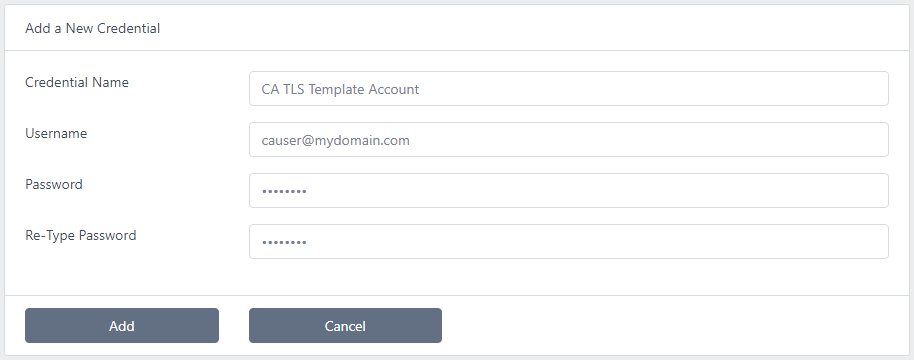
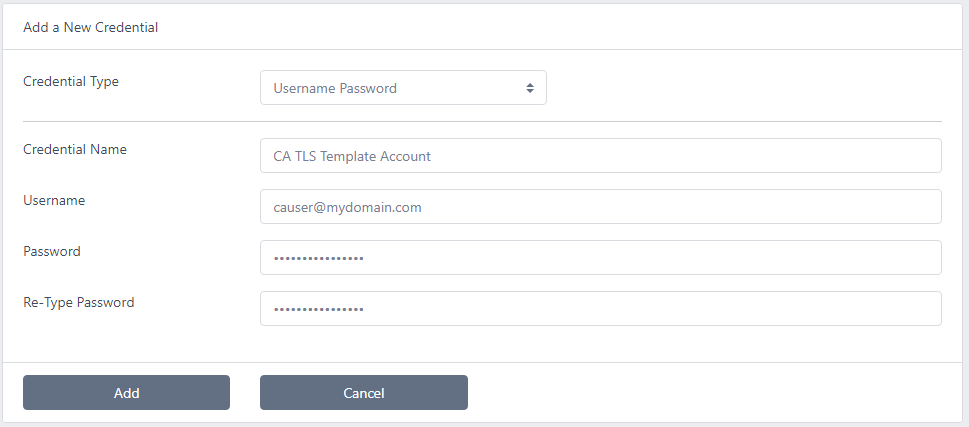
Updates

diff --git a/ezcert/credentials.md b/ezcert/credentials.md
@@ -9,11 +9,13 @@ nav_order: 7
 
 
 
-A credential is simply an account on the system that has the required permissions to request certificates from the Microsoft CA. It is usually a Microsoft Windows domain account  
+A credential is a secure store of an account or password.  It may be an account on a system that has the required permissions to request certificates from a Microsoft CA in which case it will be Microsoft Windows domain account  
 
 When you configure a Microsoft Certificate Issuer you must either specify a credential or select *No Credential*  
 
-When a certificate is requested from the Certificate Issuer (or the CA's templates are queried) this account is used by the ADCS Agent. If *No Credential* is selected the account that the ADCS Agent service is running under will be used instead  
+When you configure other issuers, you may only need to configure a password credential
+
+When a certificate is requested from the Certificate Issuer (or the Microsoft CA's templates are queried) this account is used by the ADCS Agent. If *No Credential* is selected the account that the ADCS Agent service is running under will be used instead  
 
 ---
 
@@ -22,12 +24,13 @@ To create a new Credential:
 1. Select **Credentials** from the menu
 2. Click **Add New Credential**
 
-<img src=".\images\new_credential.png" alt="image-20210116161358897" style="zoom: 67%;" />
+<img src=".\images\new_credential.png" alt="image-20210207171112963" style="zoom:67%;" />
 
-1. For the **Credential Name**, choose a name you will reference this credential by
-2. Enter the **username**. If this is a domain account it must include the domain name in the form ``user@domain.com`` or ``domain\user``
-3. Enter the **password** for the account
-4. Click **Add**
+1. For **Credential Type**, select whether this is a *username password* credential - or simply to store a *password*
+2. For the **Credential Name**, choose a name you will reference this credential by
+3. For *username password* credentials, enter the **username**. If this is a domain account it must include the domain name in the form ``user@domain.com`` or ``domain\user``
+4. Enter the **password** for the account and re-type
+5. Click **Add**
 
 ---
 

diff --git a/ezcert/create_ejbca_issuer.md b/ezcert/create_ejbca_issuer.md
@@ -1,11 +1,11 @@
 ---
 layout: default
-title: EJBCA Setup
+title: Create an EJBCA Issuer
 parent: EzCert
 nav_order: 9
 ---
 
-# EzCERT - EJBCA Setup
+# Create an EJBCA Issuer
 
 
 
